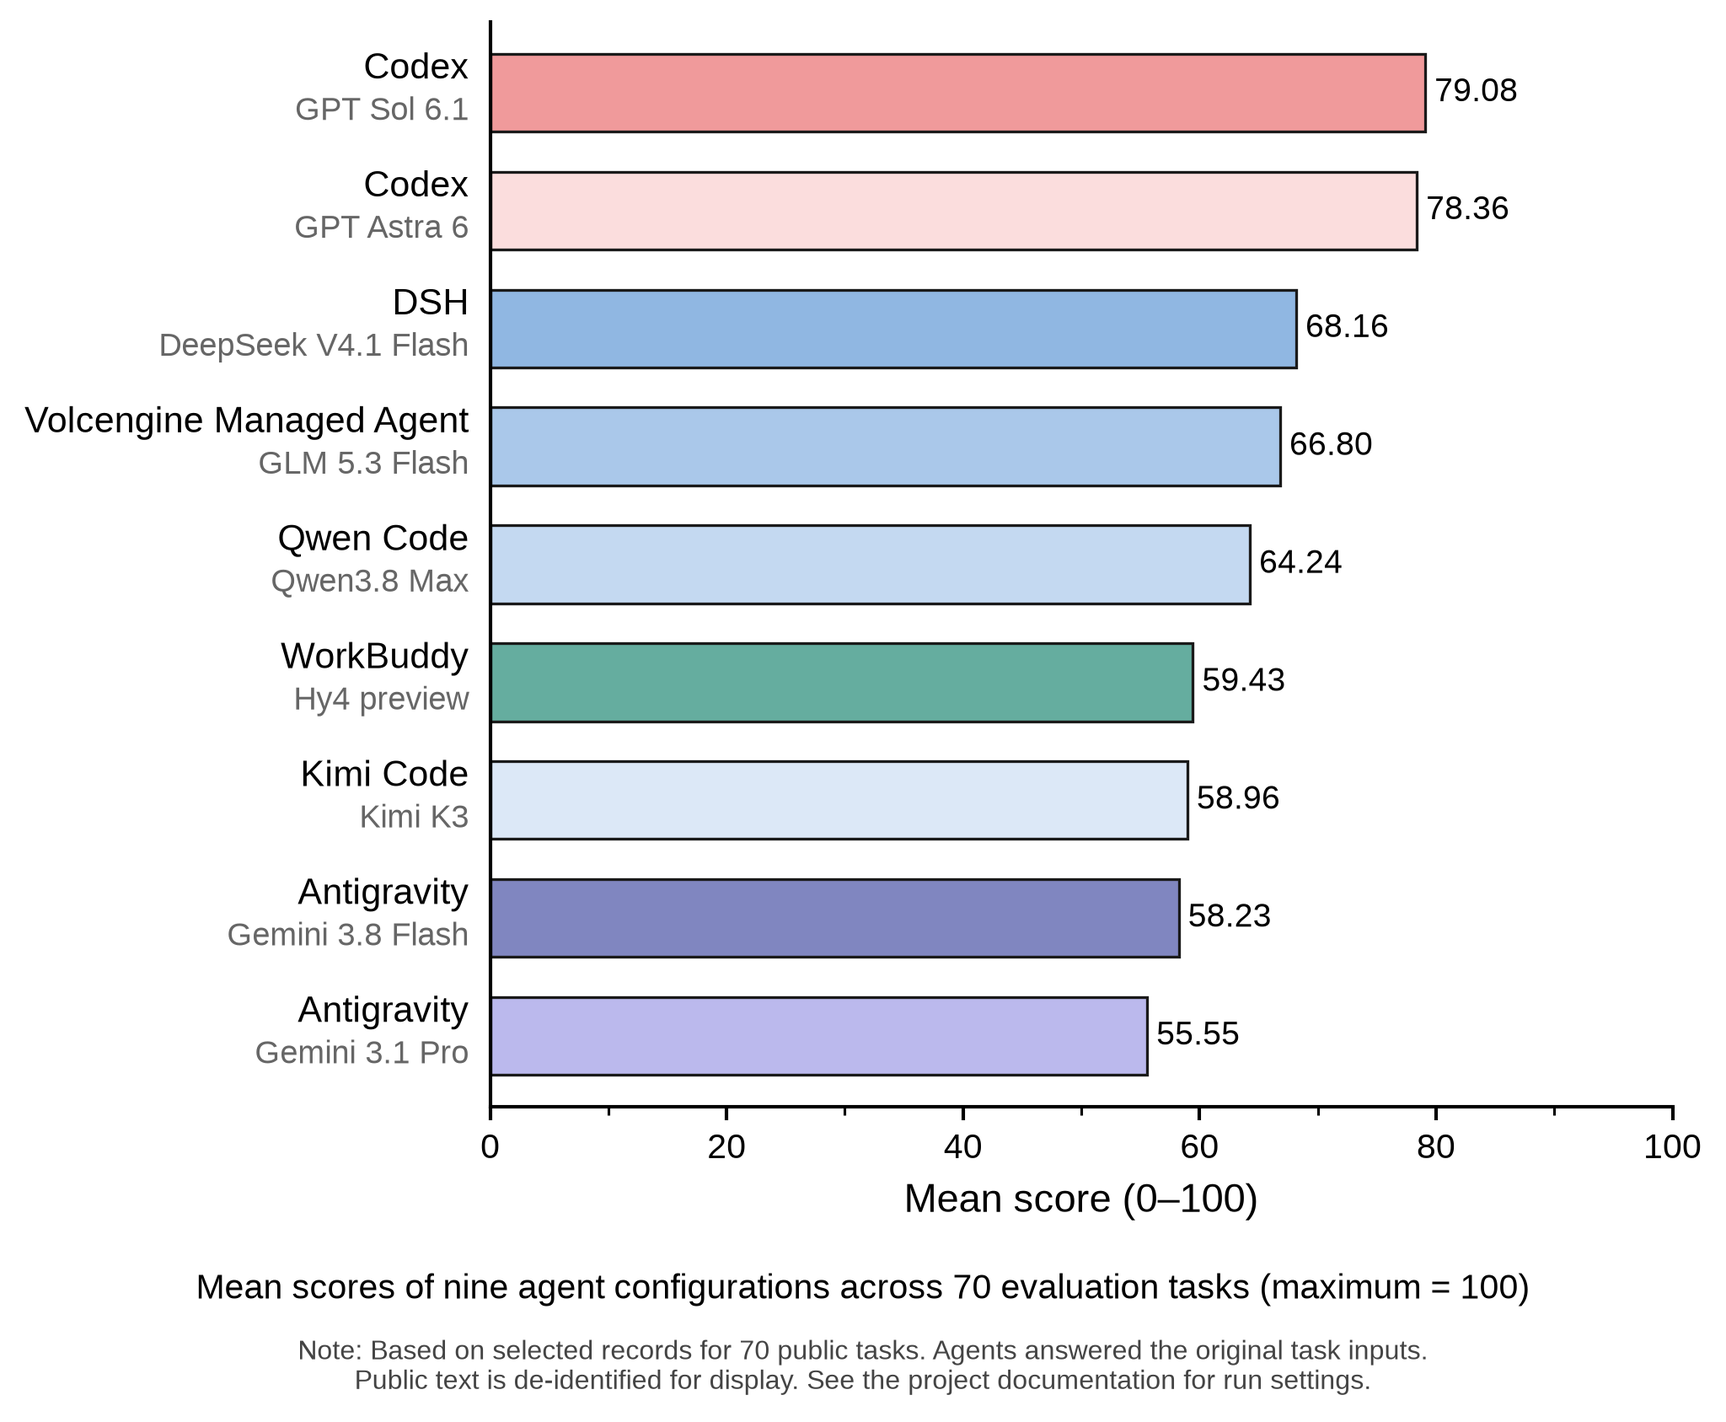
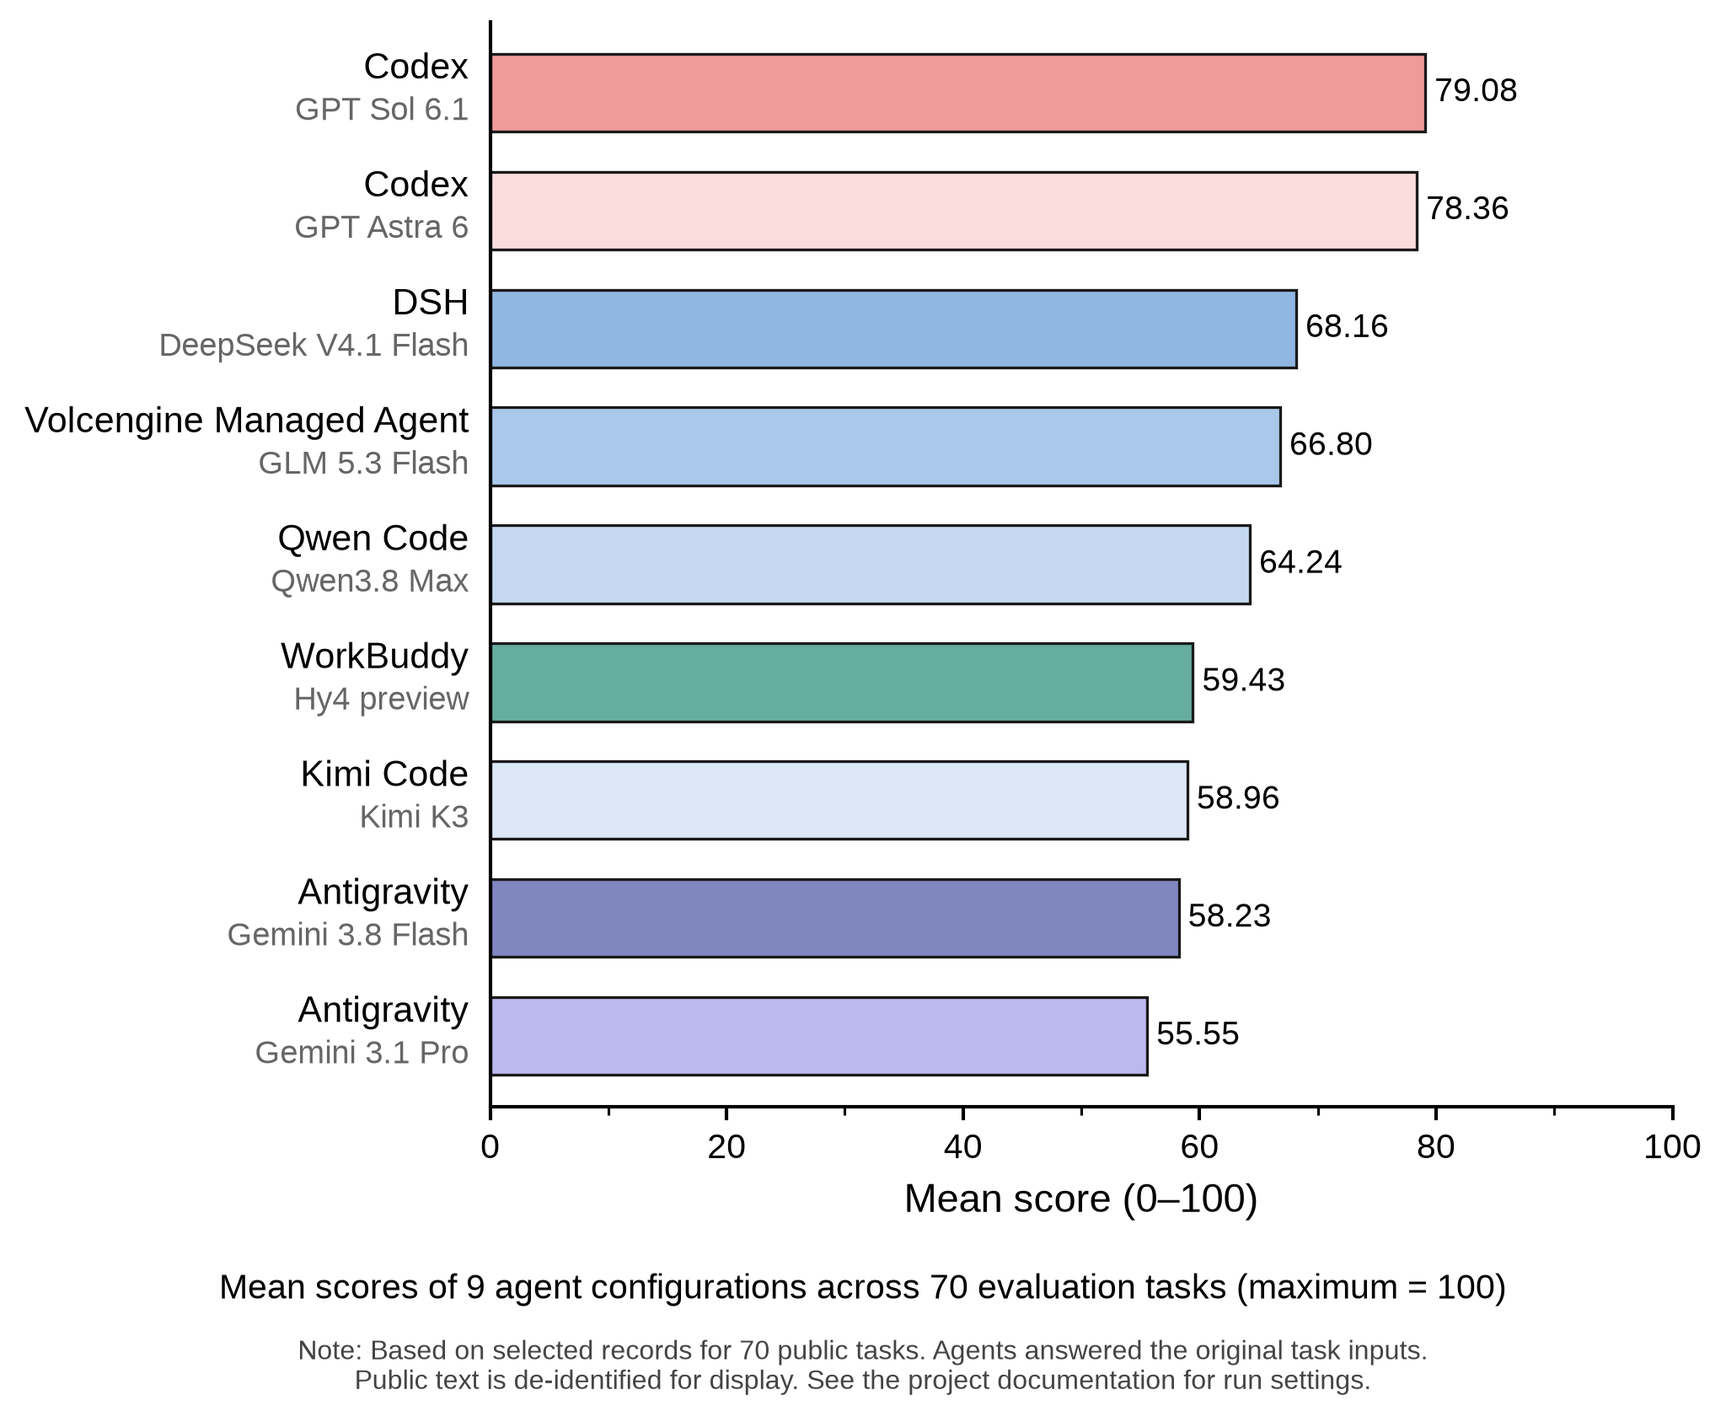
Bind score evidence to the selected result and scale charts

Changed region(s): [[0.125, 0.8939, 0.875, 0.9247]]

diff --git a/scripts/render_agent_score_charts.py b/scripts/render_agent_score_charts.py
@@ -41,11 +41,23 @@ def figure_size(width_pt, height_px):
     return width_in, width_in * height_px / WIDTH
 
 
+def chart_label(name):
+    if name in LABELS:
+        return LABELS[name]
+    system, _, model = name.partition(' + ')
+    return system, model, '#8fa6b5'
+
+
 def render(font_dir=None, *, data=None, output_dir=OUT):
     if data is None:
         data = json.loads(DATA.read_text())
     ranking = data['ranking']
-    assert len(ranking) == len(LABELS) == 9
+    count = len(ranking)
+    if not count:
+        raise ValueError('No agent configurations to plot')
+    questions = data['question_count']
+    labels = [chart_label(row['model']) for row in ranking]
+    en_configurations = f'{count} agent configuration' + ('s' if count != 1 else '')
     if font_dir is not None:
         for path in sorted(font_dir.iterdir()):
             if path.suffix.lower() in {'.ttf', '.otf'}:
@@ -59,12 +71,12 @@ def render(font_dir=None, *, data=None, output_dir=OUT):
     plt.rcParams.update({'font.family': latin, 'axes.linewidth': 1,
                          'mathtext.fontset': 'custom', 'mathtext.it': f'{latin}:italic',
                          'mathtext.rm': latin, 'savefig.facecolor': 'white'})
-    colors = [LABELS[r['model']][2] for r in ranking]
+    colors = [color for _, _, color in labels]
 
     def axis(ax, values, label_sizes, tick_step):
-        ax.barh(range(len(ranking)), values, height=.66, color=colors,
+        ax.barh(range(count), values, height=.66, color=colors,
                 edgecolor='#1a1a1a', linewidth=.8)
-        ax.set(xlim=(0, 100), ylim=(len(ranking)-.4, -.6), yticks=[],
+        ax.set(xlim=(0, 100), ylim=(count-.4, -.6), yticks=[],
                xticks=range(0, 101, tick_step))
         for side in ('top', 'right'):
             ax.spines[side].set_visible(False)
@@ -72,22 +84,22 @@ def render(font_dir=None, *, data=None, output_dir=OUT):
         if label_sizes is not None:
             agent_size, model_size = label_sizes
             label_x = -.045 if tick_step == 25 else -.018
-            for i, row in enumerate(ranking):
-                top, bottom, _ = LABELS[row['model']]
-                ax.text(label_x, i-.20, top, transform=ax.get_yaxis_transform(),
-                        ha='right', va='center', fontsize=agent_size, clip_on=False)
-                ax.text(label_x, i+.16, bottom, transform=ax.get_yaxis_transform(),
-                        ha='right', va='center', fontsize=model_size,
-                        color='#666', clip_on=False)
+            for i, (top, bottom, _) in enumerate(labels):
+                ax.text(label_x, i-.20 if bottom else i, top, transform=ax.get_yaxis_transform(),
+                        ha='right', va='center', fontsize=agent_size, fontproperties=cjk, clip_on=False)
+                if bottom:
+                    ax.text(label_x, i+.16, bottom, transform=ax.get_yaxis_transform(),
+                            ha='right', va='center', fontsize=model_size, fontproperties=cjk,
+                            color='#666', clip_on=False)
 
     for lang in ('en', 'zh'):
         zh = lang == 'zh'
         fp = cjk if zh else font
         score_label = '平均得分（0–100）' if zh else 'Mean score (0–100)'
-        note = ('注：基于公开 70 题的选定记录。各配置使用原版题目作答，公开脱敏文本用于展示。运行设置见评测说明。'
-                if zh else 'Note: Based on selected records for 70 public tasks. Agents answered the original task inputs.\n'
+        note = (f'注：基于公开 {questions} 题的选定记录。各配置使用原版题目作答，公开脱敏文本用于展示。运行设置见评测说明。'
+                if zh else f'Note: Based on selected records for {questions} public tasks. Agents answered the original task inputs.\n'
                 'Public text is de-identified for display. See the project documentation for run settings.')
-        height = 1654 if zh else 1687
+        height = (1654 if zh else 1687) + (count - 9) * 142
         fig, ax = plt.subplots(figsize=figure_size(OVERALL_WIDTH_PT, height))
         fig.subplots_adjust(left=.284, right=.969, top=1-26/height,
                             bottom=(347 if zh else 374)/height)
@@ -98,8 +110,8 @@ def render(font_dir=None, *, data=None, output_dir=OUT):
         for i, value in enumerate(means):
             ax.text(value+.8, i, f'{value:.2f}', va='center', fontsize=9.5)
         ax.set_xlabel(score_label, fontproperties=fp, fontsize=11.5, labelpad=5)
-        caption = ('9 组 Agent 配置在 70 项评测任务上的平均得分（满分 100）' if zh
-                   else 'Mean scores of nine agent configurations across 70 evaluation tasks (maximum = 100)')
+        caption = (f'{count} 组 Agent 配置在 {questions} 项评测任务上的平均得分（满分 100）' if zh
+                   else f'Mean scores of {en_configurations} across {questions} evaluation tasks (maximum = 100)')
         fig.text(.5, (121 if zh else 157)/height, caption, ha='center', va='center',
                  fontproperties=fp, fontsize=10.5 if zh else 10)
         fig.text(.5, (50 if zh else 65)/height, note, ha='center', va='center',
@@ -107,7 +119,7 @@ def render(font_dir=None, *, data=None, output_dir=OUT):
         fig.savefig(output_dir/f'fig1_{lang}_workbuddy.png', dpi=WIDTH / fig.get_figwidth())
         plt.close(fig)
 
-        height = 1376 if zh else 1404
+        height = (1376 if zh else 1404) + (count - 9) * 102
         fig, axes = plt.subplots(1, 3, figsize=figure_size(CATEGORY_WIDTH_PT, height))
         fig.subplots_adjust(left=.232, right=.957, top=1-(132 if zh else 117)/height,
                             bottom=(326 if zh else 356)/height, wspace=.265)
@@ -123,14 +135,14 @@ def render(font_dir=None, *, data=None, output_dir=OUT):
             for i, value in enumerate(values):
                 ax.text(value+1.1, i, f'{value:.2f}', va='center', fontsize=8,
                         fontweight='bold' if value==highest else 'normal')
-            count = data['category_counts'][category]
-            count_label = f'（N = {count}）' if zh else f'($N$ = {count})'
+            category_count = data['category_counts'][category]
+            count_label = f'（N = {category_count}）' if zh else f'($N$ = {category_count})'
             ax.set_title(f'({chr(97+col)}) {names[col]}\n{count_label}',
                          fontproperties=fp, fontsize=10.5 if zh else 9, pad=4)
         fig.supxlabel(score_label, x=.605, y=(190 if zh else 216)/height,
                       fontproperties=fp, fontsize=10.5)
-        caption = ('9 组 Agent 配置在三类任务上的平均得分对比（各类最高分以粗体标出）' if zh
-                   else 'Mean scores of nine agent configurations by task category (highest score in each category in bold)')
+        caption = (f'{count} 组 Agent 配置在三类任务上的平均得分对比（各类最高分以粗体标出）' if zh
+                   else f'Mean scores of {en_configurations} by task category (highest score in each category in bold)')
         fig.text(.5, (109 if zh else 141)/height, caption, ha='center', va='center',
                  fontproperties=fp, fontsize=10.5 if zh else 10)
         fig.text(.5, (45 if zh else 60)/height, note, ha='center', va='center',

diff --git a/scripts/render_answer_index.py b/scripts/render_answer_index.py
@@ -13,6 +13,18 @@ ROOT = Path(__file__).resolve().parents[1]
 ANSWERS = ROOT / 'experiments/records70'
 def read(p): return json.loads(Path(p).read_text(encoding='utf-8'))
 def interval(v):return f'{v[0]:.2f}' if v[0]==v[1] else f'{v[0]:.2f}–{v[1]:.2f}'
+
+def score_matches(row, folder):
+ if not row.get('score_path'):
+  return False
+ for name in ('effective-score.json','score.json'):
+  path=folder/name
+  if path.is_file():
+   score=read(path)
+   if score.get('score_interval')==row['interval'] and score.get('pending_nodes',[])==row.get('pending_nodes',[]):
+    return True
+ return False
+
 def render():
  rows=read(ANSWERS/'score-details-70.json')['rows']
  ranking=read(ANSWERS/'score-summary-70.json')['ranking']
@@ -34,11 +46,14 @@ def render():
     alink=f'[答卷 / Answer]({task}/{p.relative_to(folder).as_posix()})'
    else:alink='原始正文未留存 / Original text unavailable'
    review=[]
-   for name,label in [('judgment.json','逐项评审 / Judgment'),('score.json','评分 / Score'),('effective-score.json','生效分 / Effective score'),('adjudication.json','裁定 / Ruling'),('node-adjudication.json','节点裁定 / Node ruling')]:
-    if (folder/name).is_file():review.append(f'[{label}]({task}/{name})')
+   current_score=score_matches(row,folder)
+   if current_score:
+    for name,label in [('judgment.json','逐项评审 / Judgment'),('score.json','评分 / Score'),('effective-score.json','生效分 / Effective score'),('adjudication.json','裁定 / Ruling'),('node-adjudication.json','节点裁定 / Node ruling')]:
+     if (folder/name).is_file():review.append(f'[{label}]({task}/{name})')
    meta=[]
-   for name,label in [('metadata.json','元数据 / Metadata'),('run.json','运行 / Execution')]:
-    if (folder/name).is_file():meta.append(f'[{label}]({task}/{name})')
+   if current_score:
+    for key,name,label in [('metadata_path','metadata.json','元数据 / Metadata'),('run_path','run.json','运行 / Execution')]:
+     if row.get(key) and (folder/name).is_file():meta.append(f'[{label}]({task}/{name})')
    lines.append(f"| {row['question_id']} · {task} | {interval(row['interval'])} | {alink} | {' · '.join(review) or '—'} | {' · '.join(meta) or '—'} |")
   lines+=['','分数区间表示仍有待核事实；任务目录保存该题当前选定记录。','Score ranges retain unresolved facts; each task directory holds the current selected record.','']
   if (root/'manifest.json').is_file():lines+=['[运行与评分记录 / Run and scoring record](manifest.json)', '']

diff --git a/scripts/render_current70_figures.py b/scripts/render_current70_figures.py
@@ -63,6 +63,19 @@ def fmt(bounds):
     return f'{bounds[0]:.2f}' if bounds[0] == bounds[1] else f'{bounds[0]:.2f}–{bounds[1]:.2f}'
 
 
+def same_scoring_record(previous, incoming):
+    if previous.get('interval') != incoming['interval']:
+        return False
+    if previous.get('pending_nodes', []) != incoming.get('pending_nodes', []):
+        return False
+    if previous.get('answer_status') != incoming.get('answer_status'):
+        return False
+    evidence_keys = ('source_score_sha256', 'source_judgment_sha256',
+                     'source_rubric_sha256', 'source_task_sha256', 'run_id')
+    return all(key not in incoming or previous.get(key) == incoming[key]
+               for key in evidence_keys)
+
+
 def prepare_scores(source, selected, previous_rows):
     raw = read(source)
     tasks = {r['task_id']: r for r in selected['tasks']}
@@ -100,8 +113,14 @@ def prepare_scores(source, selected, previous_rows):
     for raw_row in raw['rows']:
         previous = previous_by_task.get((raw_row['agent'], raw_row['task_id']), {})
         answer_hash = raw_row.get('answer_sha256')
-        # Keep reviewed public metadata only when the import refers to the same answer.
-        row = previous.copy() if answer_hash and previous.get('answer_sha256') == answer_hash else {}
+        row = {}
+        if answer_hash and previous.get('answer_sha256') == answer_hash:
+            if same_scoring_record(previous, raw_row):
+                row = previous.copy()
+            else:
+                # The reviewed answer is still valid, but the old score evidence is stale.
+                row = {key: previous[key] for key in ('answer_path', 'public_answer_sha256')
+                       if key in previous}
         row.update({key: raw_row[key] for key in fields if key in raw_row})
         rows.append(row)
     exported['selected_record_count'] = len(rows)

diff --git a/README.md b/README.md
@@ -1,6 +1,6 @@
 # Graduate Admissions Agent Benchmark
 
-This is 屿智同行's benchmark project for graduate admissions agents, evaluating agent configurations (execution systems paired with models) for admissions advising, application planning and updating advice as student information changes. The current results cover nine agent configurations.
+This is 屿智同行's benchmark project for graduate admissions agents, evaluating agent configurations (execution systems paired with models) for admissions advising, application planning and updating advice as student information changes.
 
 The benchmark contains 70 Chinese-language tasks, 23 cases and 83 answer stages, with per-task rubrics and reference programs. The public dataset is available without access approval; scoring materials must be withheld from the agents being evaluated.
 
@@ -8,7 +8,7 @@ The benchmark contains 70 Chinese-language tasks, 23 cases and 83 answer stages,
 
 ## Evaluation results
 
-This leaderboard summarizes evaluation records for 70 public tasks, showing the mean score and completion rate of nine agent configurations. See the [documentation](docs/result-methodology.md) for evaluation settings and scoring.
+This leaderboard summarizes evaluation records for 70 public tasks, showing each agent configuration's mean score and completion rate. See the [documentation](docs/result-methodology.md) for evaluation settings and scoring.
 
 | Rank | Agent configuration (system + model) | Tasks | Completion | Mean score / 100 |
 | ---: | --- | ---: | ---: | ---: |
@@ -22,7 +22,7 @@ This leaderboard summarizes evaluation records for 70 public tasks, showing the 
 | 8 | [Antigravity + Gemini 3.8 Flash](experiments/records70/models/antigravity-gemini-3-8-flash-high/README.md) | 70 | 70/70 (100.0%) | 58.23 |
 | 9 | [Antigravity + Gemini 3.1 Pro](experiments/records70/models/antigravity-gemini-3-1-pro-high/README.md) | 70 | 70/70 (100.0%) | 55.55 |
 
-All nine agent configurations completed 70 tasks; 0 current tasks timed out. These records use original task inputs; the public de-identified text is for display. Run budgets and client settings are not fully uniform. Complete tool traces are not available for every public record; the leaderboard does not imply uniform execution conditions.
+These records use original task inputs; the public de-identified text is for display. Run budgets and client settings are not fully uniform. Complete tool traces are not available for every public record; the leaderboard does not imply uniform execution conditions.
 
 All 70 current tasks and rubrics have owner-confirmed teacher calibration. The owner-approved difficulty labels are 14 easy (20%), 34 medium (48.57%) and 22 hard (31.43%); this is not an independent double review. Per-answer `scored_draft` and `teacher_calibration` labels remain in the captured scoring records. `official=false` is a separate result-certification flag.
 
@@ -30,7 +30,7 @@ All 70 current tasks and rubrics have owner-confirmed teacher calibration. The o
 
 ![Performance of agent configurations on graduate admissions tasks](docs/figures/dev70-current/fig1_en_workbuddy.png)
 
-Mean scores of nine agent configurations across 70 evaluation tasks (maximum = 100).
+Mean scores across 70 evaluation tasks (maximum = 100).
 
 ![70-task difficulty distribution](docs/figures/dev70-current/fig_diff_en.png?v=53545e440b48)
 
@@ -87,7 +87,7 @@ Two-stage tasks supply initial context S₀ followed by updated information S₁
 
 ### Results by task type
 
-![Nine agent configurations compared across three task categories](docs/figures/dev70-current/fig3_en_workbuddy.png)
+![Agent configurations compared across three task categories](docs/figures/dev70-current/fig3_en_workbuddy.png)
 
 The categories contain 21 recommendation tasks, 36 planning and decision tasks, and 13 two-stage tasks. Scores are category means out of 100; the highest score in each category is bold.
 

diff --git a/README.zh-CN.md b/README.zh-CN.md
@@ -1,6 +1,6 @@
 # 保研 Agent Benchmark
 
-本项目是屿智同行的保研 Agent 评测项目，评测 Agent 配置（执行系统与模型组合）在保研择校、申请规划与建议更新中的表现。当前结果覆盖 9 组 Agent 配置。
+本项目是屿智同行的保研 Agent 评测项目，评测 Agent 配置（执行系统与模型组合）在保研择校、申请规划与建议更新中的表现。
 
 题库包含70道中文任务、23组案例和83个作答阶段，配套逐题评分标准与参考项目。公开数据无需申请访问；评分资料虽可下载，但评测时不得提供给被测 Agent。
 
@@ -8,7 +8,7 @@
 
 ## 评测结果
 
-本榜单基于70道公开题的评测记录汇总，展示 9 组 Agent 配置的平均得分与完成率。评测设置和评分说明见[文档](docs/result-methodology.md)。
+本榜单基于70道公开题的评测记录汇总，展示各 Agent 配置的平均得分与完成率。评测设置和评分说明见[文档](docs/result-methodology.md)。
 
 | 排名 | Agent 配置（系统 + 模型） | 题数 | 完成率 | 均分 / 100 |
 | ---: | --- | ---: | ---: | ---: |
@@ -22,7 +22,7 @@
 | 8 | [Antigravity + Gemini 3.8 Flash](experiments/records70/models/antigravity-gemini-3-8-flash-high/README.md) | 70 | 70/70 (100.0%) | 58.23 |
 | 9 | [Antigravity + Gemini 3.1 Pro](experiments/records70/models/antigravity-gemini-3-1-pro-high/README.md) | 70 | 70/70 (100.0%) | 55.55 |
 
-9 组 Agent 配置各完成 70 题；当前共 0 题超时。各配置使用原版题目作答，公开脱敏文本用于展示；不同运行的预算与客户端设置并非完全一致，公开记录也并非全部包含完整工具轨迹；不能据榜单推断统一运行条件。
+各配置使用原版题目作答，公开脱敏文本用于展示；不同运行的预算与客户端设置并非完全一致，公开记录也并非全部包含完整工具轨迹；不能据榜单推断统一运行条件。
 
 当前70题及评分标准均已由维护者确认完成教师校准。难度标签经负责人确认：简单14题（20%）、中等34题（48.57%）、困难22题（31.43%）；不代表独立双标复核。逐题评分记录仍保留生成时的 `scored_draft` 与 `teacher_calibration` 标签；`official=false` 是独立的结果认证标记。
 
@@ -30,7 +30,7 @@
 
 ![不同 Agent 配置在保研任务上的表现](docs/figures/dev70-current/fig1_zh_workbuddy.png)
 
-9 组 Agent 配置在 70 项评测任务上的平均得分（满分 100 分）。
+70 项评测任务上的平均得分（满分 100 分）。
 
 ![70题难度分布](docs/figures/dev70-current/fig_diff_zh.png?v=5dd8d556e42a)
 
@@ -87,7 +87,7 @@ python3 -m benchmark cli-batch \
 
 ### 分题型表现
 
-![9 组 Agent 配置在三类任务上的表现](docs/figures/dev70-current/fig3_zh_workbuddy.png)
+![各 Agent 配置在三类任务上的表现](docs/figures/dev70-current/fig3_zh_workbuddy.png)
 
 择校推荐 21 题、规划与决策 36 题、两阶段任务 13 题；图示为各类任务的平均得分（满分 100 分），各类最高分以粗体标出。
 
